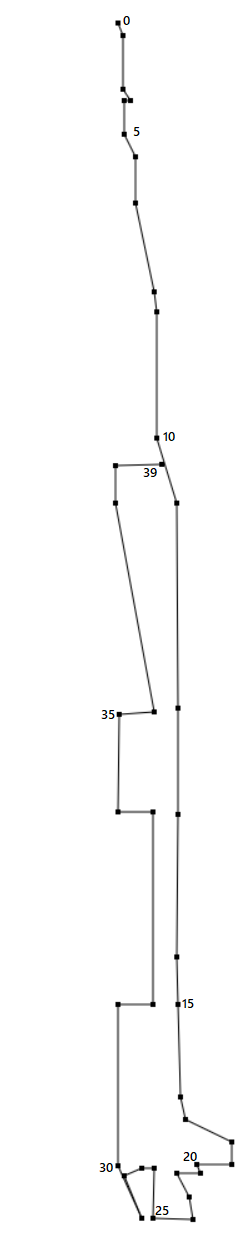
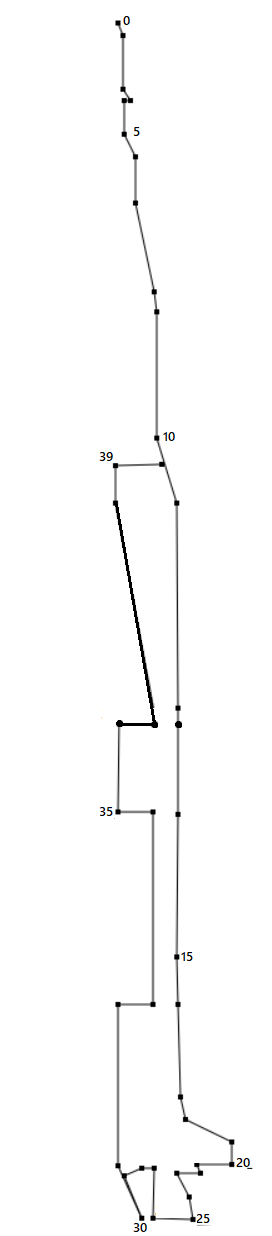
SaturnV untuned

Changed region(s): [[0.3699, 0.1849, 0.9675, 1.0], [0.4268, 0.0, 0.5691, 0.2157], [0.3699, 0.339, 0.3984, 0.3698]]

diff --git a/app/src/main/java/com/chomusukestudio/projectrocketc/Rocket/SaturnV.kt b/app/src/main/java/com/chomusukestudio/projectrocketc/Rocket/SaturnV.kt
@@ -2,39 +2,82 @@ package com.chomusukestudio.projectrocketc.Rocket
 
 import com.chomusukestudio.projectrocketc.GLRenderer.Layers
 import com.chomusukestudio.projectrocketc.Rocket.rocketPhysics.RocketPhysics
+import com.chomusukestudio.projectrocketc.Rocket.trace.AccelerationTrace
 import com.chomusukestudio.projectrocketc.Rocket.trace.Trace
-import com.chomusukestudio.projectrocketc.Shape.Shape
-import com.chomusukestudio.projectrocketc.Shape.Vector
+import com.chomusukestudio.projectrocketc.Shape.*
 import com.chomusukestudio.projectrocketc.Surrounding.Surrounding
 import kotlin.math.PI
 
 class SaturnV(surrounding: Surrounding, rocketPhysics: RocketPhysics, layers: Layers): Rocket(surrounding, rocketPhysics, layers) {
-	override val trace: Trace
-		get() = TODO("not implemented") //To change initializer of created properties use File | Settings | File Templates.
-	override val rocketQuirks: RocketQuirks
-		get() = TODO("not implemented") //To change initializer of created properties use File | Settings | File Templates.
-	override val components = run {
-		val pR = arrayOf(Vector(305f, 92f), Vector(308f, 99f), Vector(308f, 128f),
-				Vector(312f, 134f), Vector(309f, 134f), Vector(309f, 152f),
-				Vector(315f, 164f), Vector(315f, 189f), Vector(326f, 237f),
-				Vector(326f, 248f), Vector(326f, 316f), Vector(338f, 351f),
-				Vector(338f, 462f), Vector(338f, 519f), Vector(338f, 596f),
-				Vector(338f, 622f), Vector(338f, 672f), Vector(342f, 684f),
-				Vector(367f, 696f), Vector(367f, 708f), Vector(348f, 708f),
-				Vector(350f, 713f), Vector(337f, 713f), Vector(344f, 726f),
-				Vector(346f, 737f), Vector(324f, 737f), Vector(325f, 710f),
-				Vector(318f, 710f), Vector(309f, 714f), Vector(318f, 737f))
-		for (i in pR.indices)
-			pR[i] = pR[i].offset(-305f, -322.5f) // bring it to center
-					.rotateVector(PI.toFloat()/2) * 0.001f // point to right which is rotation 0
+	override val trace = AccelerationTrace(7, 1.01f, 0.2f, 0.5f, 1000, 100,
+					0.004f, Color(1f, 1f, 0f, 3f), layers)
+	override val rocketQuirks = RocketQuirks(2f, 0.004f, 0.003f,
+				0.000002f, 0.000001f)
+	override val components = run { // refer to rockets' points/SaturnV.PNG
+		val pR = arrayOf(Vector(305f, 92f), Vector(308f, 99f), Vector(308f, 128f), // 2
+				Vector(312f, 134f), Vector(309f, 134f), Vector(309f, 152f), // 5
+				Vector(315f, 164f), Vector(315f, 189f), Vector(326f, 237f), // 8
+				Vector(326f, 248f), Vector(326f, 316f), Vector(338f, 351f), // 11
+				Vector(338f, 462f), Vector(338f, 473f), Vector(338f, 519f), // 14
+				Vector(338f, 596f), Vector(338f, 622f), Vector(338f, 672f), // 17
+				Vector(342f, 684f), Vector(367f, 696f), Vector(367f, 708f), // 20
+				Vector(348f, 708f), Vector(350f, 713f), Vector(337f, 713f), // 23
+				Vector(344f, 726f), Vector(346f, 737f), Vector(324f, 737f), // 26
+				Vector(325f, 710f), Vector(318f, 710f), Vector(312f, 714f), // 29
+				Vector(318f, 737f), Vector(305f, 710f), Vector(305f, 622f), // 32
+				Vector(324f, 622f), Vector(324f, 519f), Vector(305f, 519f), // 35
+				Vector(305f, 473f), Vector(324f, 473f), Vector(305f, 351f), // 38
+				Vector(305f, 334f), Vector(332f, 334f))
+		for (i in pR.indices) {
+            pR[i] = pR[i].offset(-305f, -414.5f) // bring it to center
+					.scaleXY(Vector(1.3f, 1f))
+					.rotateVector(PI.toFloat() / 2) // point to right which is rotation 0
+			pR[i] = pR[i] * 0.002f
+        }
 		val pL = Array(pR.size) { pR[it].mirrorXAxis() }
-		TODO("not implemented")
+		val white = Color(1f, 1f, 1f, 1f)
+		val black = Color(0.3f, 0.3f, 0.3f, 1f)
+		val build = BuildShapeAttr(0.5f, true, layers)
+		return@run arrayOf(TriangularShape(pR[0], pR[1], pL[1], white, build),
+				QuadrilateralShape(pR[1], pR[2], pL[2], pL[1], white, build),
+				QuadrilateralShape(pR[2], pR[3], pL[3], pL[2], white, build),
+				QuadrilateralShape(pR[4], pR[5], pL[5], pL[4], black, build),
+				QuadrilateralShape(pR[5], pR[6], pL[6], pL[5], white, build),
+				QuadrilateralShape(pR[6], pR[7], pL[7], pL[6], white, build),
+				QuadrilateralShape(pR[7], pR[8], pL[8], pL[7], white, build),
+				QuadrilateralShape(pR[8], pR[9], pL[9], pL[8], black, build),
+				QuadrilateralShape(pR[9], pR[10], pL[10], pL[9], white, build),
+				QuadrilateralShape(pR[10], pR[40], pL[40], pL[10], black, build),
+				QuadrilateralShape(pR[40], pR[11], pR[38], pR[39], white, build),
+				QuadrilateralShape(pL[40], pL[11], pL[38], pL[39], black, build),
+				QuadrilateralShape(pR[11], pR[12], pL[12], pL[11], white, build),
+				QuadrilateralShape(pR[12], pR[13], pL[13], pL[12], black, build),
+				QuadrilateralShape(pR[13], pR[14], pR[34], pR[37], black, build),
+				QuadrilateralShape(pR[34], pR[35], pR[36], pR[37], white, build),
+				QuadrilateralShape(pL[13], pL[14], pL[34], pL[37], white, build),
+				QuadrilateralShape(pL[34], pL[35], pL[36], pL[37], black, build),
+				QuadrilateralShape(pR[14], pR[16], pL[16], pL[14], white, build),
+				PolygonalShape(arrayOf(pR[33], pR[16], pR[17], pR[18], pR[21], pR[22], pR[27]), black, build),
+				PolygonalShape(arrayOf(pR[33], pL[16], pL[17], pL[18], pL[21], pL[22], pL[27]), white, build),
+				QuadrilateralShape(pR[33], pR[27], pR[31], pR[32], white, build),
+				QuadrilateralShape(pL[33], pL[27], pL[31], pL[32], black, build),
+				QuadrilateralShape(pR[18], pR[19], pR[20], pR[21], white, build),
+				QuadrilateralShape(pL[18], pL[19], pL[20], pL[21], white, build),
+				PolygonalShape(arrayOf(pR[23], pR[24], pR[25], pR[26], pR[27]), black, build),
+				PolygonalShape(arrayOf(pL[23], pL[24], pL[25], pL[26], pL[27]), black, build),
+				EarClipPolygonalShape(arrayOf(pL[28], pL[29], pL[30], pR[30], pR[29], pR[28]), black, build)
+				)
 	}
-	override val width: Float
-		get() = TODO("not implemented") //To change initializer of created properties use File | Settings | File Templates.
+	override val width = 0.5f
+
+	init {
+		setRotation(surrounding.centerOfRotation, surrounding.rotation)
+	}
 	
 	override fun generateTrace(now: Long, previousFrameTime: Long) {
-		TODO("not implemented") //To change body of created functions use File | Settings | File Templates.
+		val origin = ((components.last() as EarClipPolygonalShape).getVertex(2) +
+				(components.last() as EarClipPolygonalShape).getVertex(3)) * 0.5f
+		trace.generateTrace(now, previousFrameTime, origin, RocketState(currentRotation, velocity))
 	}
 	
 }

diff --git a/app/src/main/java/com/chomusukestudio/projectrocketc/ProcessingThread.kt b/app/src/main/java/com/chomusukestudio/projectrocketc/ProcessingThread.kt
@@ -8,10 +8,7 @@ import android.widget.TextView
 import com.chomusukestudio.projectrocketc.GLRenderer.Layers
 import com.chomusukestudio.projectrocketc.Joystick.InertiaJoystick
 import com.chomusukestudio.projectrocketc.Joystick.TwoFingersJoystick
-import com.chomusukestudio.projectrocketc.Rocket.Rocket
-import com.chomusukestudio.projectrocketc.Rocket.TestingRocket
-import com.chomusukestudio.projectrocketc.Rocket.V2
-import com.chomusukestudio.projectrocketc.Rocket.V2InstantDeath
+import com.chomusukestudio.projectrocketc.Rocket.*
 import com.chomusukestudio.projectrocketc.Rocket.rocketPhysics.AccelerativeRocketPhysics
 import com.chomusukestudio.projectrocketc.Rocket.rocketPhysics.DirectionalRocketPhysics
 import com.chomusukestudio.projectrocketc.Rocket.rocketPhysics.DragRocketPhysics
@@ -49,6 +46,8 @@ class ProcessingThread(val refreshRate: Float, private val mainActivity: MainAct
         return when (rocketIndex) {
 			0 -> V2InstantDeath(surrounding, MediaPlayer.create(mainActivity, R.raw.fx22), DragRocketPhysics(), layers)
             1 -> V2(surrounding, MediaPlayer.create(mainActivity, R.raw.fx22), DragRocketPhysics(), layers)
+            2 -> SaturnV(surrounding, DragRocketPhysics(), layers)
+
             else -> throw IndexOutOfBoundsException("rocketIndex out of bounds")
         }
     }
@@ -62,7 +61,7 @@ class ProcessingThread(val refreshRate: Float, private val mainActivity: MainAct
     }
     fun isOutOfBounds(dIndex: Int): Boolean {
         val index = rocketIndex + dIndex
-        return index !in 0..1
+        return index !in 0..2
     }
 
     private fun updateScore() {
